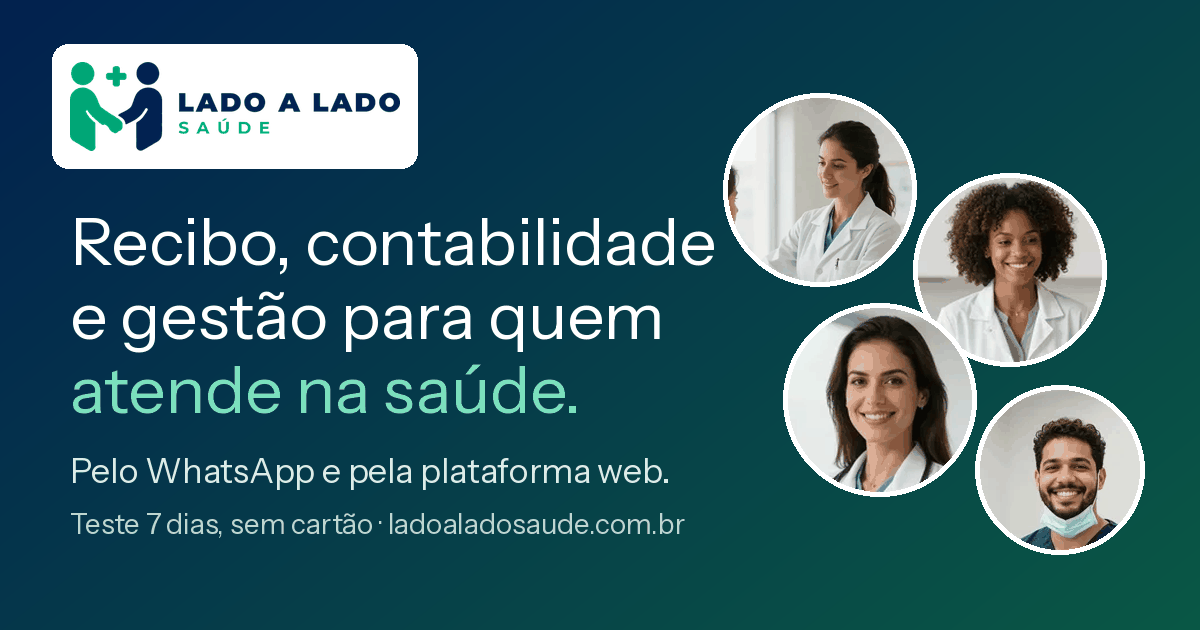
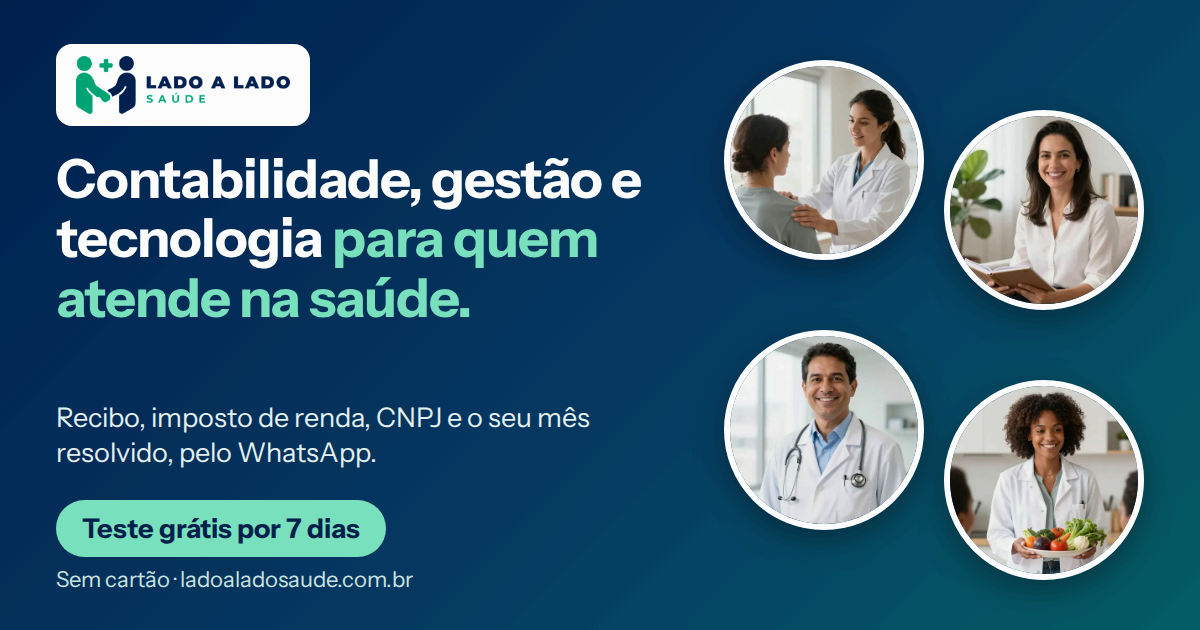
publicacao 2026-11-20 17:35

diff --git a/empresa/inicio.html b/empresa/inicio.html
@@ -4,16 +4,16 @@
 <meta charset="utf-8">
 <meta http-equiv="Content-Security-Policy" content="default-src 'self'; script-src 'self' 'unsafe-inline' https://cdn.jsdelivr.net; style-src 'self' 'unsafe-inline'; img-src 'self' data: blob: https://yfcogdqahsmaynyggqnk.supabase.co; connect-src 'self' https://yfcogdqahsmaynyggqnk.supabase.co wss://yfcogdqahsmaynyggqnk.supabase.co; font-src 'self'; media-src 'self' blob:; object-src 'none'; base-uri 'self'; form-action 'self'">
 <meta name="viewport" content="width=device-width,initial-scale=1,viewport-fit=cover">
-<title>Lado a Lado Saúde: recibo, contabilidade e gestão para quem atende</title>
-<meta name="description" content="Para profissionais da saúde, como autônomo ou com empresa: recibo, contabilidade, imposto de renda, abertura de CNPJ, redes e assessoria para a sua atuação.">
+<title>Lado a Lado Saúde: contabilidade, gestão e tecnologia para quem atende na saúde</title>
+<meta name="description" content="Recibo, imposto de renda, abertura de CNPJ e o seu mês resolvido, pelo WhatsApp e pela plataforma web. Teste grátis por 7 dias, sem cartão.">
 <meta name="robots" content="noindex">
 <link rel="icon" href="../icone.svg" type="image/svg+xml">
 <link rel="preload" href="fonts/InstrumentSans-latin-variable.woff2" as="font" type="font/woff2" crossorigin>
 <meta property="og:type" content="website"><meta property="og:locale" content="pt_BR"><meta property="og:site_name" content="Lado a Lado Saúde">
-<meta property="og:title" content="Lado a Lado Saúde: recibo, contabilidade e gestão para quem atende">
-<meta property="og:description" content="Você atende os pacientes com carinho e cuidado e nós estaremos lado a lado na gestão: recibo, contabilidade, imposto de renda, abertura de CNPJ, redes e assessoria.">
-<meta property="og:image" content="https://ladoaladosaude.com.br/empresa/og-capa.png"><meta property="og:image:width" content="1200"><meta property="og:image:height" content="630"><meta property="og:image:alt" content="Lado a Lado Saúde: Recibo, Contabilidade, Gestão, Tecnologia">
-<meta name="twitter:card" content="summary_large_image"><meta name="twitter:title" content="Lado a Lado Saúde"><meta name="twitter:description" content="Você atende com carinho e cuidado; nós estaremos lado a lado na gestão."><meta name="twitter:image" content="https://ladoaladosaude.com.br/empresa/og-capa.png">
+<meta property="og:title" content="Lado a Lado Saúde: contabilidade, gestão e tecnologia para quem atende na saúde">
+<meta property="og:description" content="Recibo, imposto de renda, abertura de CNPJ e o seu mês resolvido, pelo WhatsApp e pela plataforma web. Teste grátis por 7 dias, sem cartão.">
+<meta property="og:image" content="https://ladoaladosaude.com.br/empresa/og-capa.png"><meta property="og:image:width" content="1200"><meta property="og:image:height" content="630"><meta property="og:image:alt" content="Lado a Lado Saúde: contabilidade, gestão e tecnologia para quem atende na saúde.">
+<meta name="twitter:card" content="summary_large_image"><meta name="twitter:title" content="Lado a Lado Saúde: contabilidade, gestão e tecnologia para quem atende na saúde"><meta name="twitter:description" content="Recibo, imposto de renda, abertura de CNPJ e o seu mês resolvido, pelo WhatsApp e pela plataforma web. Teste grátis por 7 dias, sem cartão."><meta name="twitter:image" content="https://ladoaladosaude.com.br/empresa/og-capa.png">
 <script type="application/ld+json">{"@context":"https://schema.org","@type":"Organization","name":"Lado a Lado Saúde","legalName":"Assessoria Lado a Lado Ltda","url":"https://ladoaladosaude.com.br/","logo":"https://ladoaladosaude.com.br/empresa/logo-saude-claro.png","description":"Recibo, contabilidade e gestão para profissionais da saúde, autônomos ou com empresa.","areaServed":"BR","contactPoint":{"@type":"ContactPoint","telephone":"+55-27-99971-2727","contactType":"customer service","availableLanguage":"pt-BR"}}</script>
 
 <meta name="theme-color" content="#02214f">

diff --git a/index.html b/index.html
@@ -4,7 +4,11 @@
 <meta charset="utf-8">
 <meta http-equiv="Content-Security-Policy" content="default-src 'self'; script-src 'self' 'unsafe-inline' https://cdn.jsdelivr.net; style-src 'self' 'unsafe-inline'; img-src 'self' data: blob: https://yfcogdqahsmaynyggqnk.supabase.co; connect-src 'self' https://yfcogdqahsmaynyggqnk.supabase.co wss://yfcogdqahsmaynyggqnk.supabase.co; font-src 'self'; media-src 'self' blob:; object-src 'none'; base-uri 'self'; form-action 'self'">
 <meta name="viewport" content="width=device-width,initial-scale=1">
-<title>Lado a Lado Saúde</title>
+<title>Lado a Lado Saúde: contabilidade, gestão e tecnologia para quem atende na saúde</title>
+<meta property="og:type" content="website"><meta property="og:locale" content="pt_BR"><meta property="og:site_name" content="Lado a Lado Saúde">
+<meta property="og:url" content="https://ladoaladosaude.com.br/"><meta property="og:title" content="Lado a Lado Saúde: contabilidade, gestão e tecnologia para quem atende na saúde"><meta property="og:description" content="Recibo, imposto de renda, abertura de CNPJ e o seu mês resolvido, pelo WhatsApp e pela plataforma web. Teste grátis por 7 dias, sem cartão.">
+<meta property="og:image" content="https://ladoaladosaude.com.br/empresa/og-capa.png"><meta property="og:image:width" content="1200"><meta property="og:image:height" content="630"><meta name="twitter:card" content="summary_large_image">
+<meta name="description" content="Recibo, imposto de renda, abertura de CNPJ e o seu mês resolvido, pelo WhatsApp e pela plataforma web. Teste grátis por 7 dias, sem cartão.">
 <meta name="robots" content="noindex">
 <meta name="theme-color" content="#0f6b55">
 <link rel="icon" href="icone.svg" type="image/svg+xml">
